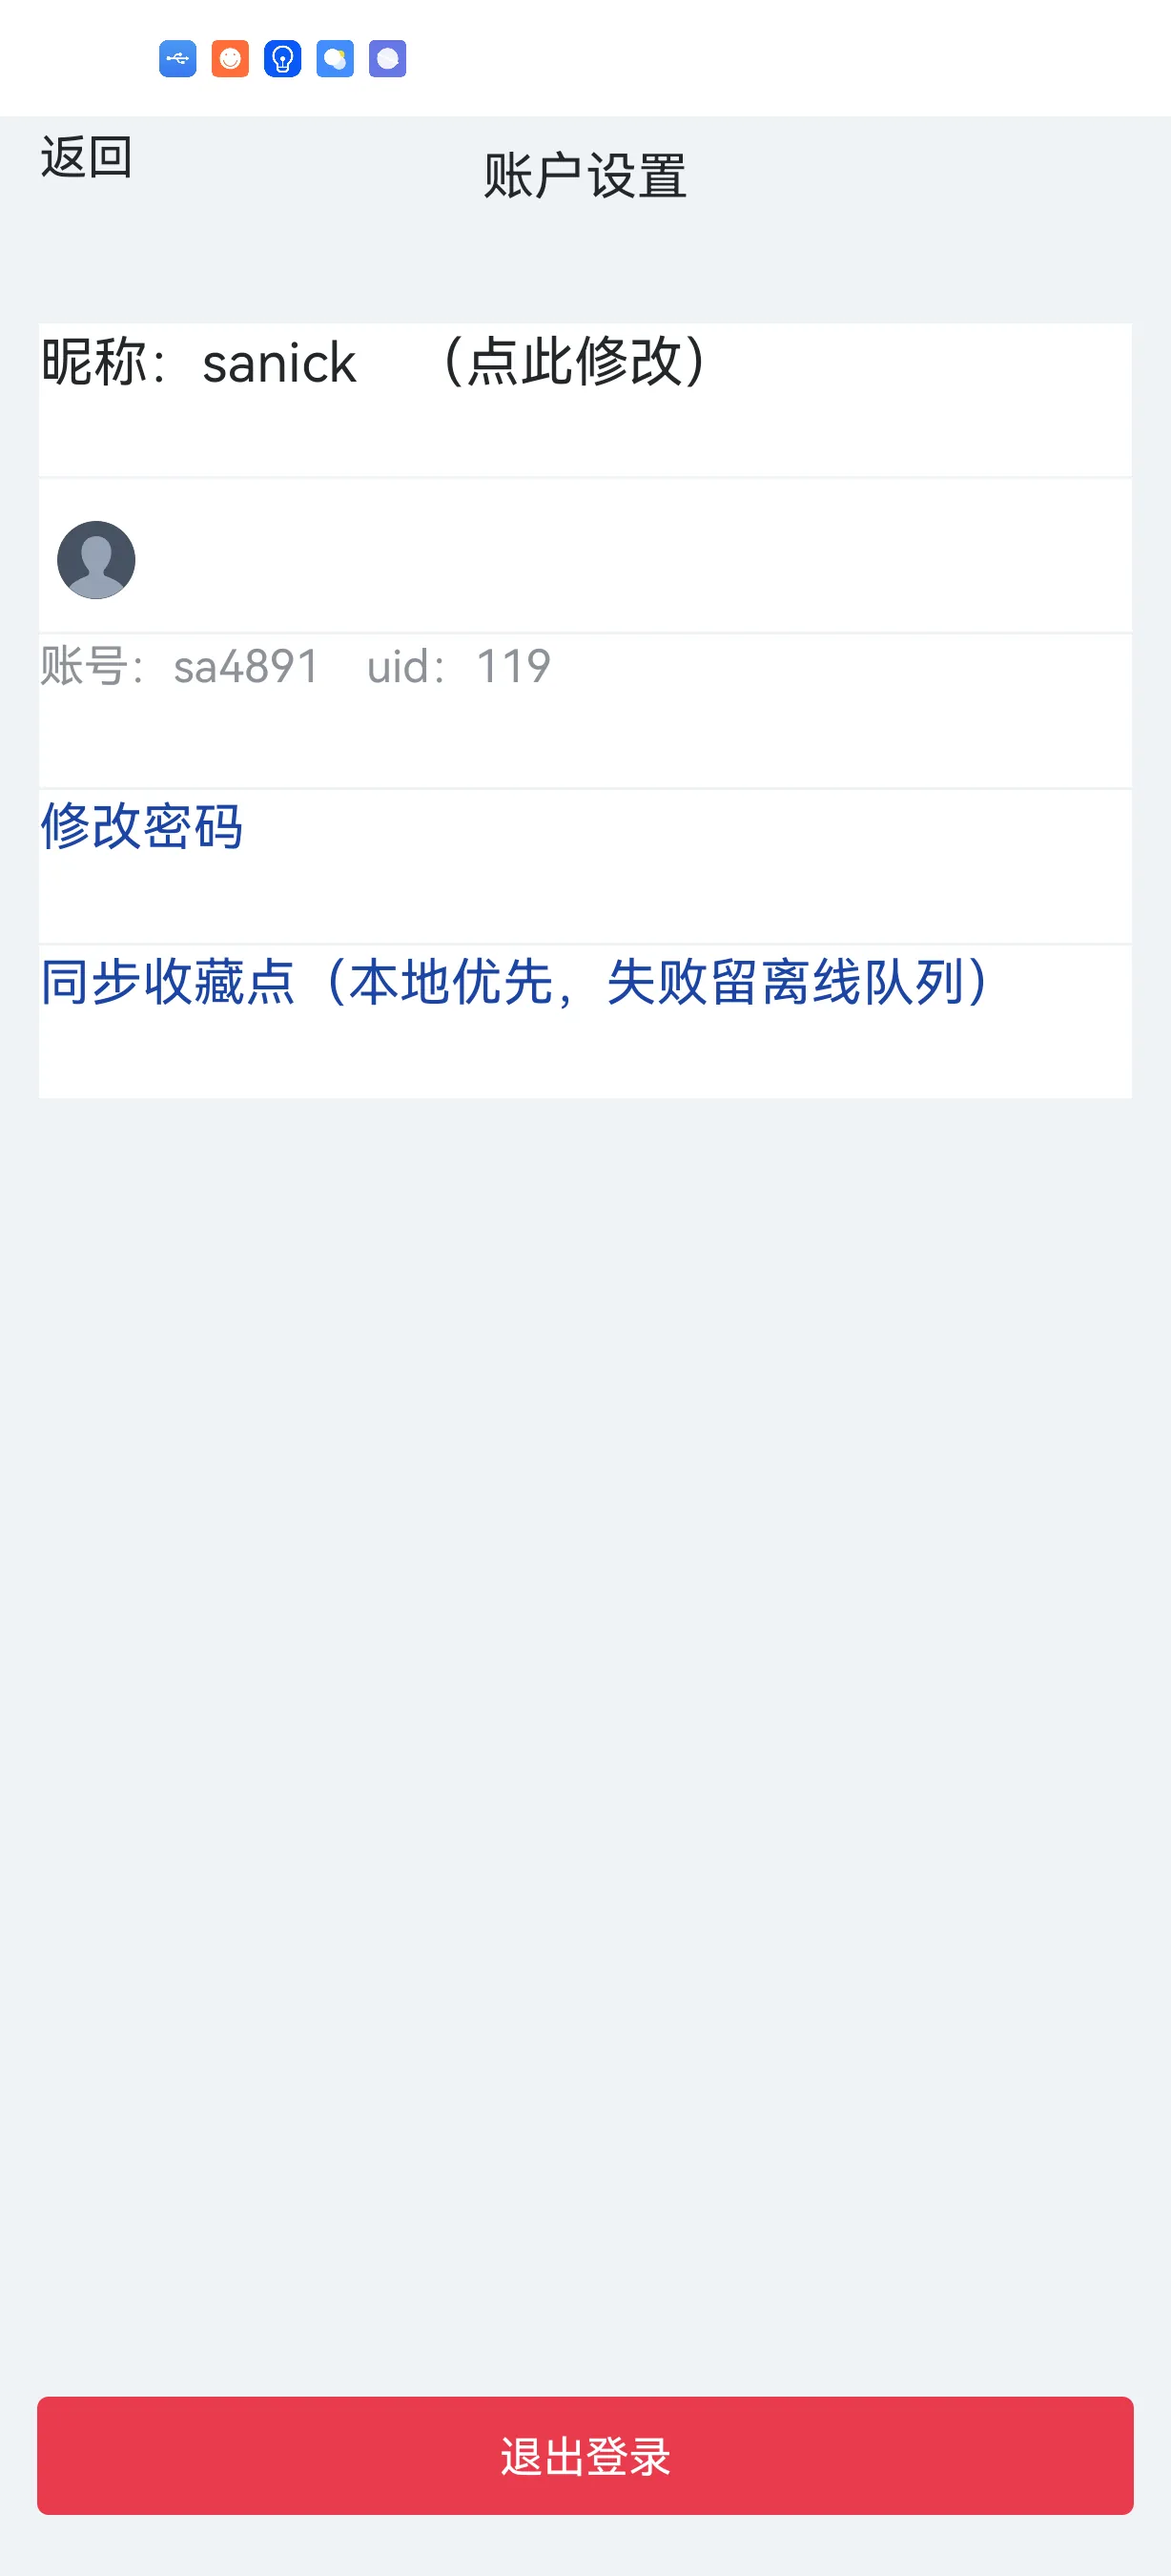
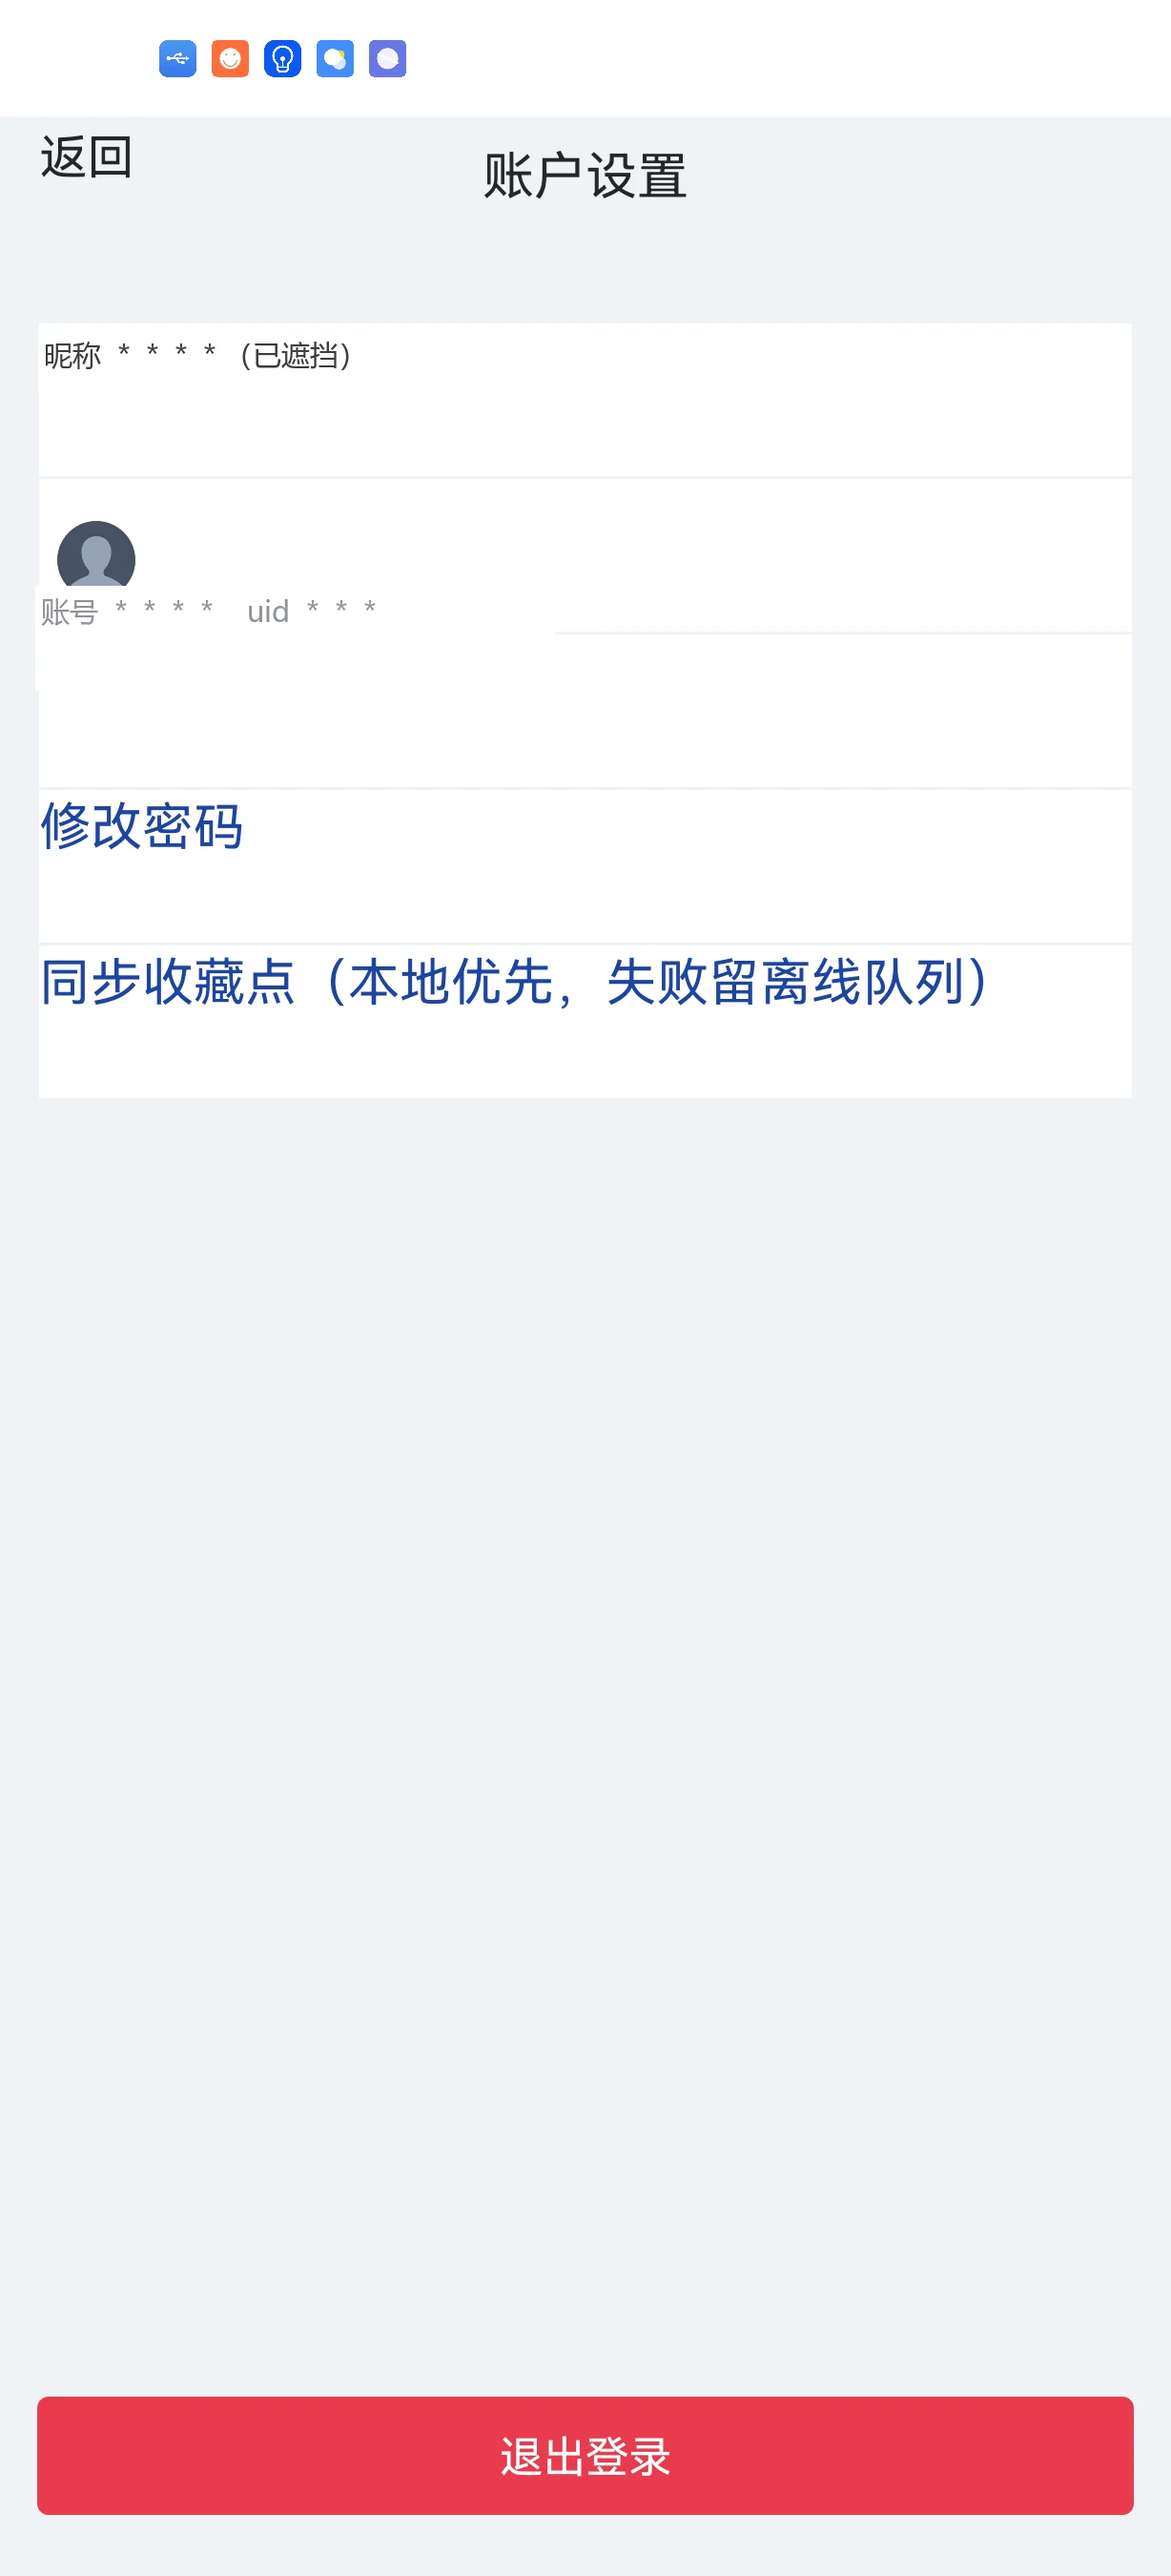
fix(client): 帮助中心 6 图裁切 + fig-26 明文打码 + 关于我们备案号叠字
① 6 张裁切（按审成文给的框，原图 1228×2700，逐张尺寸核对）：
   fig-07 1228×68 / fig-10 1228×136 / fig-11 201×1111 / fig-12 230×758 /
   fig-14 201×2048 / fig-17 201×1889（与原表期望值逐项一致）
② fig-26 账户设置：昵称 sanick、账号 sa4891、uid 119 属明文泄露，按"打码"处置
   （设备不在线，无法用专用测试号重拍）：暗像素 bbox 精确定位后抹白，改写
   「昵称 ＊＊＊＊（已遮挡）」「账号 ＊＊＊＊  uid ＊＊＊」，其余像素不动
③ 关于我们备案号叠字（fig-29 实拍可见）：真因是**页面实现**，不是截图渲染。
   M3PageActivity:927 ys={995,1090,2331,2489,2496} —— v1.6.1 与 APP备案编号
   只差 7px，而字高 >7px，按节点 y 摆放必叠。修法：备案号上沿 ≥ v1.6.1 上沿 +
   实测字高 + 4，其它四行不动；日志 LCM3 "about overlap fix: beian top X -> Y"
④ 三门：assets.py verify PASS(103/103/103)、evidence-lint lc-help fail=0、
   md2html 头部 blob 1e9d92ba == MD 当前 blob（index.html 无 diff）
遗留：fig-32 等设备重拍；fig-29 需设备重截图确认叠字消失

diff --git a/app/android/app/src/main/java/com/luopan/fengshui/M3PageActivity.java b/app/android/app/src/main/java/com/luopan/fengshui/M3PageActivity.java
@@ -987,6 +987,26 @@ public class M3PageActivity extends Activity {
                 android.widget.FrameLayout.LayoutParams lp2 =
                         (android.widget.FrameLayout.LayoutParams) ch.getLayoutParams();
                 lp2.topMargin = Math.max(0, ((Integer) tag) - off);
+                // M6 第 4 条遗留缺陷：关于我们底部两行在原版 dump 里只差 7px（2489 / 2496），
+                // 而 v1.6.1 字高 >7px，按节点 y 摆放会叠字——fig-29 实拍「v1.6.1」压在
+                // 「渝ICP备20003923号-12A」上。这是**页面实现**问题（不是截图渲染）。
+                // 修法：备案号上沿 ≥ v1.6.1 上沿 + v1.6.1 实测字高 + 4；其它四行不动。
+                if (((Integer) tag) == 2496) {
+                    for (int j = 0; j < stage.getChildCount(); j++) {
+                        View above = stage.getChildAt(j);
+                        if (above.getTag() instanceof Integer && ((Integer) above.getTag()) == 2489) {
+                            int v161Top = Math.max(0, 2489 - off);
+                            int need = v161Top + above.getMeasuredHeight() + 4;
+                            if (lp2.topMargin < need) {
+                                android.util.Log.d("LCM3", "about overlap fix: beian top "
+                                        + lp2.topMargin + " -> " + need
+                                        + " (v161H=" + above.getMeasuredHeight() + ")");
+                                lp2.topMargin = need;
+                            }
+                            break;
+                        }
+                    }
+                }
                 ch.setLayoutParams(lp2);
             }
         });
